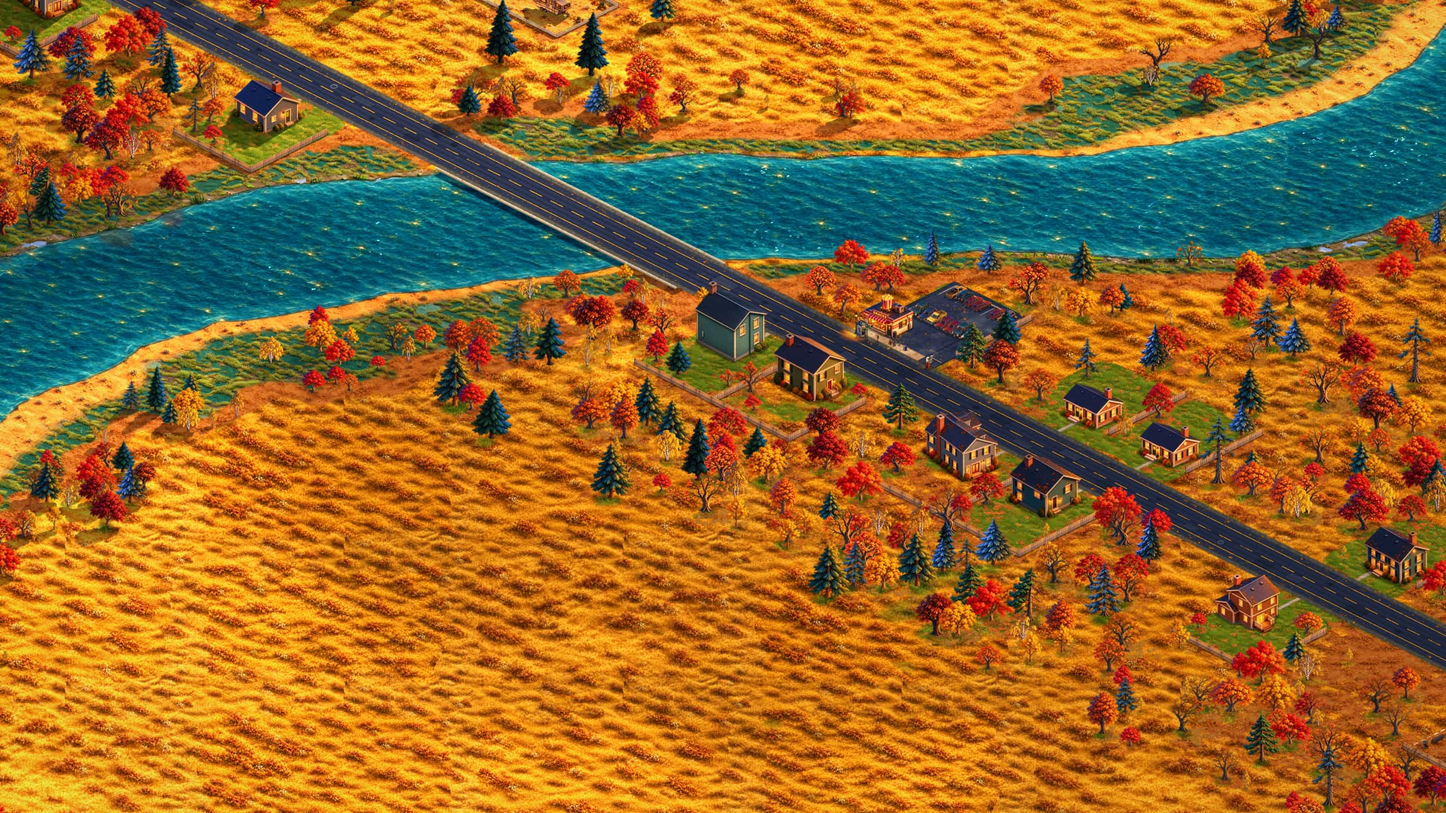
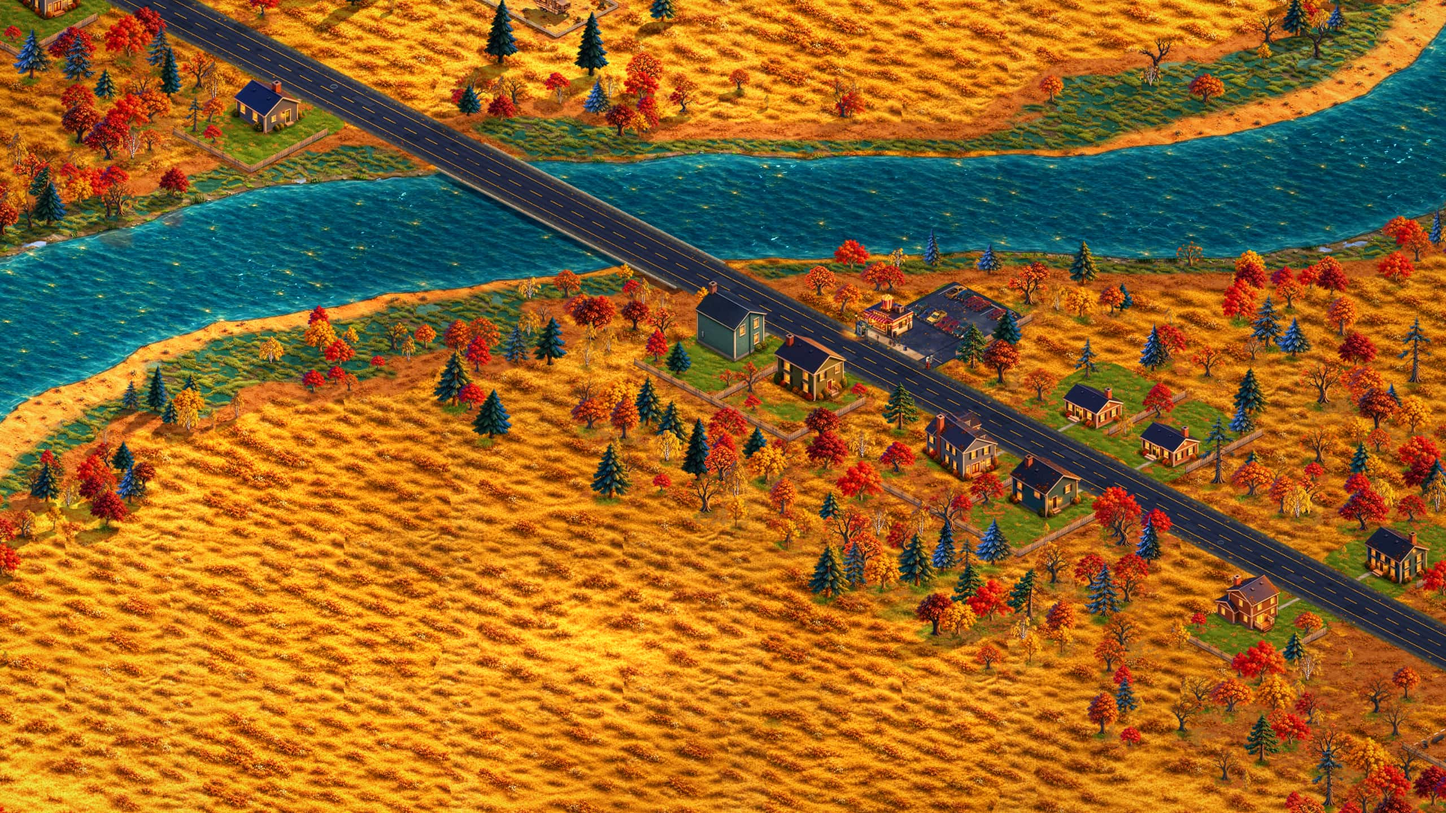
Menu scene: the range is busy from the first lap (warmed up under the still at the scene's morning hour); 2,500 extra range residents
A golfer takes about 100 s from the map's edge to a bay on the scene's range, so the range was still empty when the lap reached it. When the
director sets the scene's morning (its new 'hour' event, under the still), the engine runs the range sim 240 sim s on in a frame's half-second
steps (RangeHost.warm, at the hour given: the clock just set is still on its way back from the worker). 6,000 extra residents filled 36 of the
44 car park bays and overflowed the line; 2,500 keeps the 12 bays busy. Probe: all 12 bays taken at the start, 5 to 7 through the lap.

diff --git a/src/game/engine.ts b/src/game/engine.ts
@@ -28,7 +28,7 @@ import { STRUCT_COST, STRUCT_MAX, groundClass, highwayRoute, longestRun, splitBy
 import { CULL_MIN_PX, FULL_UV, GLRenderer, POINT_STRIDE, SHADOW_STRIDE, SPRITE_STRIDE, VECTOR_STRIDE } from './gl';
 import { GroundCache } from './ground-cache';
 import { GAME_BOOT, clampCentre, flatTerrain, type BootOptions } from './boot';
-import { SHOW_FARM_MONTH, SHOW_GOLFERS, SHOW_PEDS_PER_LOT, SHOW_RANGE_BALLS, SHOW_RANGE_RESIDENTS } from './showcase';
+import { SHOW_FARM_MONTH, SHOW_GOLFERS, SHOW_PEDS_PER_LOT, SHOW_RANGE_BALLS, SHOW_RANGE_RESIDENTS, SHOW_RANGE_WARM_S, SHOW_HOURS } from './showcase';
 import { TILE_BANDS, TILES_REVISION, anchorAt, bandAt, bandRange, bandsAhead, cellOf, cellsIn, coverageOf, drawnScale, nearUntil, nextBand, tiledFamily, tileIndex, tilePermutation, tileScreenPx, tileSize, tileSpec } from './painted-tiles';
 import { desertLeavesDev, onPaintedSurfaces, paintedSurfaces, setDesertSurfaces } from './painted-surfaces-live';
 import { borderDefault, crewBandLook, finishBorders, finishOf, finishStripeLook, mowSpec } from './course-finish';
@@ -749,6 +749,10 @@ export class Game {
   /** J12: the menu scene's still (scripts/jam/menu-scene-motion.mjs --flow poster): the world drawn with nothing that moves (no cars, people, animals, carts or balls), so the
    *  still under the title card is the live scene's first frame without its movers, and the swap to the live scene only brings them in */
   stillLife = false;
+  /** J12: the menu scene's range warmed up (RangeHost.warm: its golfers already at the bays, not on their way from the map's edge); the scene only */
+  warmShowRange(simS = SHOW_RANGE_WARM_S) { if (this.show && this.golf?.start === 'range') this.showWarmed = this.range.warm(simS, SHOW_HOURS.start); }
+  /** the visits the scene's range had after its warm-up (-1: it could not be warmed; null: not asked: the checks read it) */
+  showWarmed: number | null = null;
   readonly floats = new MoneyFloats();
   /** T151, the map's world labels: collected over the overlay's frame, placed in one pass (none overlapping, stable) and written together; the
    *  money floats' columns are placed after them (floatCols) */

diff --git a/tests/showcase.test.ts b/tests/showcase.test.ts
@@ -209,9 +209,9 @@ test('the director: waits for the first view, glides, cuts with a copy of the pi
   const d = new ShowDirector(g, stops, 0, snap, e => events.push(e)); d.begin(0);
   assert.equal(d.phase, 'first'); assert.ok(g.onFrame && g.onAfterDraw);
   // nothing shows until the first view is baked (and not before the least wait)
-  frame(g, 100); assert.equal(d.phase, 'first'); assert.deepEqual(events, []);
+  frame(g, 100); assert.equal(d.phase, 'first'); assert.deepEqual(events, ['hour'], 'the hour set, the range warmed under the still');
   g.setReady(true); frame(g, READY_MIN_MS - 1); assert.equal(d.phase, 'first');
-  frame(g, READY_MIN_MS + 10); assert.equal(d.phase, 'play'); assert.deepEqual(events, ['first', 'cut']);
+  frame(g, READY_MIN_MS + 10); assert.equal(d.phase, 'play'); assert.deepEqual(events, ['hour', 'first', 'cut']);
   // the camera glides: at the middle it is where poseAt says
   const t0 = READY_MIN_MS + 10; frame(g, t0 + 6000);
   const mid = poseAt(stops[0]!, 0.5, 1600, 900); assert.ok(Math.abs(g.cam.X - mid.X) < 1e-6 && Math.abs(g.cam.z - mid.z) < 1e-9);
@@ -223,7 +223,7 @@ test('the director: waits for the first view, glides, cuts with a copy of the pi
   // the copy stays opaque until the next stop's ground is baked and the least wait is over; then it fades and the new stop's own glide starts
   g.setReady(false); frame(g, t0 + 12000 + READY_MIN_MS + 50); assert.equal(d.phase, 'cover'); assert.equal(style.opacity, '1');
   g.setReady(true); frame(g, t0 + 12000 + READY_MIN_MS + 100); assert.equal(d.phase, 'play'); assert.equal(style.opacity, '0'); assert.match(style.transition, new RegExp(`opacity ${FADE_MS}ms`));
-  assert.deepEqual(events, ['first', 'cut', 'cut']);
+  assert.deepEqual(events, ['hour', 'first', 'cut', 'cut']);
   // the lap goes round
   const t1 = t0 + 12000 + READY_MIN_MS + 100; frame(g, t1 + 14000); assert.equal(d.index, 0); assert.equal(d.phase, 'cover');
   d.end(); assert.equal(g.onFrame, null); assert.equal(g.onAfterDraw, null);

diff --git a/src/game/showcase-director.ts b/src/game/showcase-director.ts
@@ -20,9 +20,9 @@ export interface ShowHost {
   traffic: { town: TownClock; simTime(now: number): number; setTownClock(c: TownClock): void };
 }
 
-/** what the director tells the page: 'first' (the first stop is baked and showing: the still picture fades out), 'cut' (a stop began), 'slow' (the machine is too slow for the scene:
+/** what the director tells the page: 'hour' (the town clock is set to the scene's morning: the page warms the range up, under the still), 'first' (the first stop is baked and showing: the still picture fades out), 'cut' (a stop began), 'slow' (the machine is too slow for the scene:
  *  the page gives way to its still picture), 'rest' (REST_AFTER_MS of play: the page stops the engine and the last picture stays) */
-export type ShowEvent = 'first' | 'cut' | 'slow' | 'rest';
+export type ShowEvent = 'first' | 'cut' | 'slow' | 'rest' | 'hour';
 
 /** firstHold (ms): the first stop holds its first view this long after it is shown (the still fades out over the same picture: the page passes POSTER_FADE_MS), then glides */
 export class ShowDirector {
@@ -79,7 +79,7 @@ export class ShowDirector {
     if (this.off) return;
     const g = this.g, gap = this.lastNow ? Math.min(100, now - this.lastNow) : 0; this.lastNow = now;
     // the town clock starts at the first golf hour once the worker's time is known (before its first frame the sim time reads 0)
-    if (!this.hourSet && g.traffic.simTime(now) > 0) { this.setHour(now, true); this.hourSet = true; }
+    if (!this.hourSet && g.traffic.simTime(now) > 0) { this.setHour(now, true); this.hourSet = true; this.emit('hour'); }
     if (this.state === 'first') {
       this.place(this.i, 0);
       if (now - this.askedAt >= READY_MIN_MS && (g.viewReady(g.cam) || now - this.askedAt >= READY_MAX_MS * 2)) { this.state = 'play'; this.t0 = now + this.firstHold; this.playSince = now; this.emit('first'); this.emit('cut'); }

diff --git a/src/game/showcase.ts b/src/game/showcase.ts
@@ -39,8 +39,11 @@ export const WARM_MS = 3500;
  *  the first group was on the tee and the range had no one yet): the morning's groups are out on every hole */
 export const SHOW_HOURS = Object.freeze({ start: 9.0, end: 15.0 });
 /** the residents the scene's range draws on beyond the town's own (engine range demand, show only): the prepared world's small town brings a golfer to the range now and then; this keeps
- *  most of its bays busy (dayDemand: 0.0183 a resident a day, a bay held about a town hour) so the menu shows golfers hitting balls. Never the player's game */
-export const SHOW_RANGE_RESIDENTS = 6000;
+ *  most of its 12 bays busy without a crowd turned away at the counter (dayDemand: 0.0183 a resident a day, a bay held about a town hour; 6,000 filled 36 of the 44 car park bays) so the menu shows golfers hitting balls. Never the player's game */
+export const SHOW_RANGE_RESIDENTS = 2500;
+/** the sim seconds the scene's range is run on when the first view shows (engine warmShowRange): a golfer takes about 100 s from the map's edge to a bay there (the drive in, the
+ *  walk from the car park, the counter), so the range is busy by the time the lap reaches it */
+export const SHOW_RANGE_WARM_S = 240;
 /** the clean balls the scene's ball room is stocked with at load (engine, show only; the scene saves nothing). The prepared world's room held 791, less than one bucket on its
  *  long town day (visitBalls: 40 balls a 600 s day), so every golfer drove off unserved ('balls') and the bays stayed empty */
 export const SHOW_RANGE_BALLS = 500_000;

diff --git a/src/App.tsx b/src/App.tsx
@@ -271,7 +271,7 @@ export default function App() {
     if (!game?.ready || !sceneWanted || director.current) return;
     if (!game.show) { try { history.replaceState(null, '', menuPage ? `${MENU_HASH}&scene=off` : '#scene=off'); } catch { /* none */ } location.reload(); return; } // the scene's world could not be had: start again without it (the main menu page stays the menu, over the player's own game)
     if (!snapRef.current) return;
-    const d = new ShowDirector(game, SHOW_STOPS, startStop, snapRef.current, e => { if (e === 'first') setPosterOn(false); else if (e === 'slow') { d.end(); game.freeze(); setPosterOn(true); } else if (e === 'rest') { d.end(); game.freeze(); } }, POSTER_FADE_MS); // (the first view holds while the still fades over it)
+    const d = new ShowDirector(game, SHOW_STOPS, startStop, snapRef.current, e => { if (e === 'hour') game.warmShowRange(); else if (e === 'first') setPosterOn(false); else if (e === 'slow') { d.end(); game.freeze(); setPosterOn(true); } else if (e === 'rest') { d.end(); game.freeze(); } }, POSTER_FADE_MS); // (the first view holds while the still fades over it)
     director.current = d; d.begin(); Object.assign(window as unknown as Record<string, unknown>, { __showDirector: d, __showcase: { stops: SHOW_STOPS, poseAt } }); // (the checks' hooks, like __game: scripts/jam/menu-scene-shots.mjs)
   }, [game?.ready, sceneWanted, game, startStop]);
   useEffect(() => () => { director.current?.end(); director.current = null; }, []);

diff --git a/src/game/golf/rangehost.ts b/src/game/golf/rangehost.ts
@@ -252,6 +252,16 @@ export class RangeHost {
   }
 
   /** once a frame: the golfers move on by the sim time since the last frame, and their takings are booked every BOOK_EVERY sim s */
+  /** J12: the menu scene's range already busy when the camera reaches it: its golfers run on simS sim seconds at once, in a frame's half-second steps (never a skip, which
+   *  books the expected sales and clears them), at the hour given (else the clock as it reads now). A visit takes about two minutes from the map's edge to a bay on the scene's range */
+  warm(simS: number, hour?: number): number {
+    this.sync(); const b = this.ctx.biz(); if (!b || !this.scene || simS <= 0) return -1;
+    if (this.sim.book !== (b.balls ?? null)) this.sim.setBalls(b.balls ?? null);
+    // (at the hour given: a clock just set is the worker's to send back, so the town clock here may still read the hour before it)
+    const c0 = this.ctx.clock(), clock = hour === undefined ? c0 : { ...c0, hour }, dem = this.ctx.demand(), L = this.ctx.dayLen();
+    for (let left = simS; left > 1e-9; left -= 0.5) this.owed += this.sim.step(Math.min(0.5, left), clock, b, dem, L);
+    return this.sim.onFoot;
+  }
   step(): void {
     const b = this.ctx.biz(); if (!b || !this.scene) return;
     // T386: the sim sells and lands the range's balls: the save's book (a load or a new game brings a new one)
